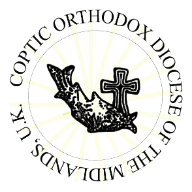
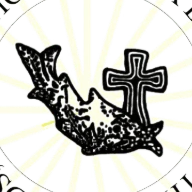
Crop the Midlands diocese seal to its emblem so it reads at 24px
The file was loading, the img element was visible, and it still looked like
nothing was there. Both of those checks passed and neither answered the actual
question, which is whether a reader can see it.

The artwork as supplied is a full seal: a coat of arms inside a ring of
lettering. At the 24px the masthead draws it, the ring is sub-pixel and
averages to grey haze, and the emblem that carries the identity was left
occupying about a third of the frame - so what reached the screen was a faint
circle with a smudge in the middle, sitting next to London's bold shield.

The served file is now a square crop of the central emblem: centre (294,295)
of the 587x587 original, half-side 180, resampled to 192x192 - the same
dimensions as the London crest. Dark pixels in a 24x24 render go from 86 to
158; London's is 100. 31KB to 35KB.

source-art/ keeps the uncropped seal, and must. The crop is a rendering
decision for one small slot, not a correction to a diocese's artwork -
anything needing the full seal at a legible size takes it from there.

VERSION to v66: the crest is cache-first, so without the bump every phone
that has already opened a CONAFA page keeps the old file forever.

diff --git a/web/sw.js b/web/sw.js
@@ -7,7 +7,7 @@
  * last-known copy for offline boot. Bump VERSION on any deploy that should
  * push a fresh shell.
  */
-const VERSION = 'cofta-v65';
+const VERSION = 'cofta-v66';
 const SHELL = [
   './', './index.html', './styles.css', './fonts.css', './themes.css', './diocese.webp',
   './app.js', './api.js', './model.js', './queue.js', './crests.js',

diff --git a/CLAUDE.md b/CLAUDE.md
@@ -27,7 +27,7 @@ the bare domain).
 - **PWA**: `sw.js` — network-first for code/HTML (deploys land on first
   reload), cache-first for fonts/crests/icons. **Bump `VERSION` in sw.js
   whenever any cached asset changes** (fonts, crests, PWA icons), otherwise
-  old devices keep stale copies forever. Currently `cofta-v65`.
+  old devices keep stale copies forever. Currently `cofta-v66`.
 
 ## Workflow
 
@@ -614,15 +614,27 @@ viewed, under whom, and shows that diocese's crest. All organiser-confirmed:
 - **A crest file that has not landed hides itself** (`onerror` →
   `visibility:hidden`) rather than rendering broken, and never falls back to
   another diocese's crest — the wrong one is worse than none.
-- **The crest slot sizes by HEIGHT, not as a square.** `diocese.webp` is
-  192×192 and fills 24×24; `diocese-midlands.webp` is 203×150, and a square
-  slot letterboxed it to 24×18 — a third smaller on the axis carrying its
-  detail. `height:24px;width:auto;max-width:46px` treats both at the same
-  scale whatever their shape, and the masthead is the same height either way.
-- **Outstanding:** the Midlands artwork is the full lock-up — emblem plus
-  "Coptic Orthodox Patriarchate" and "DIOCESE OF THE MIDLANDS". At 24px tall
-  that text cannot be legible whatever the slot does. A square crop of the
-  emblem alone, as London's appears to be, is the real fix.
+- **The crest slot sizes by HEIGHT, not as a square**, because the artwork is
+  not guaranteed to be square. An earlier Midlands file was 203×150 and a
+  square slot letterboxed it to 24×18 — a third smaller on the axis carrying
+  its detail. `height:24px;width:auto;max-width:46px` treats any shape at the
+  same scale, and the masthead is the same height either way. Both files
+  happen to be 192×192 today; the rule is what keeps the next one safe.
+- **A diocesan seal is cropped to its emblem before it is served.** The
+  Midlands artwork as supplied is a full seal: the coat of arms inside a ring
+  of lettering. It loaded and rendered correctly and still looked like nothing
+  — at 24px the ring is sub-pixel and averages to grey haze, and the emblem
+  that carries the identity was left occupying about a third of the frame.
+  `web/diocese-midlands.webp` is now a square crop of the central emblem
+  (source 587×587, centre 294,295, half-side 180 → 192×192), which doubles the
+  emblem on screen: dark pixels in a 24×24 render go from 86 to 158, against
+  100 for London's. **`source-art/` keeps the uncropped seal** — the crop is a
+  rendering decision for a 24px slot, not a correction to the artwork, and the
+  original has to survive for the next time it is needed at a readable size.
+  Measure this the same way rather than by eye: render to a 24×24 canvas,
+  composite over white and count pixels below 180 luminance. "The file is
+  there and the img element is visible" is not the same claim as "a reader can
+  see it", and only the first of those had been checked.
 - Both crests are cache-first, so replacing either needs a `VERSION` bump.
 
 ### Who runs each competition

diff --git a/source-art/README.md b/source-art/README.md
@@ -16,8 +16,8 @@ These arrived at around **3464×3464**, roughly 12 megapixels, and are drawn at
 |---|---|---|
 | four competition badges | 2,437 KB | 72 KB |
 | st-mina, gg-b | 1,275 KB | 36 KB |
-| diocese-midlands | 121 KB | 31 KB |
-| **total** | **3,833 KB** | **139 KB** |
+| diocese-midlands | 121 KB | 35 KB |
+| **total** | **3,833 KB** | **143 KB** |
 
 Download weight is the smaller half of it. Decoding a 12-megapixel image costs
 roughly 48 MB of memory *per image* regardless of the size it is painted at,
@@ -36,3 +36,19 @@ node, no python). The downscale was done in the browser — fetch, draw to an
 quality:0.92})` — and POSTed to a temporary local sink so several megabytes of
 base64 never had to cross the agent transcript. `scratchpad/upload.ps1` is
 that sink if it is needed again.
+
+## diocese-midlands is also cropped, not only downscaled
+
+The seal as supplied is a coat of arms inside a ring of lettering. At the 24px
+it is drawn at, the ring is sub-pixel — it averages to grey haze and leaves the
+emblem occupying about a third of the frame, which is why it read as an empty
+smudge in the masthead even though the file was loading correctly.
+
+The served file is a square crop of the central emblem: centre (294, 295) of
+the 587×587 original, half-side 180, resampled to 192×192. That doubles the
+emblem on screen — dark pixels in a 24×24 render go from 86 to 158, against
+100 for the London crest.
+
+**The original here is the uncropped seal and must stay that way.** The crop
+is a rendering decision for one small slot, not a correction to the artwork;
+anything that needs the full seal at a legible size takes it from this file.
